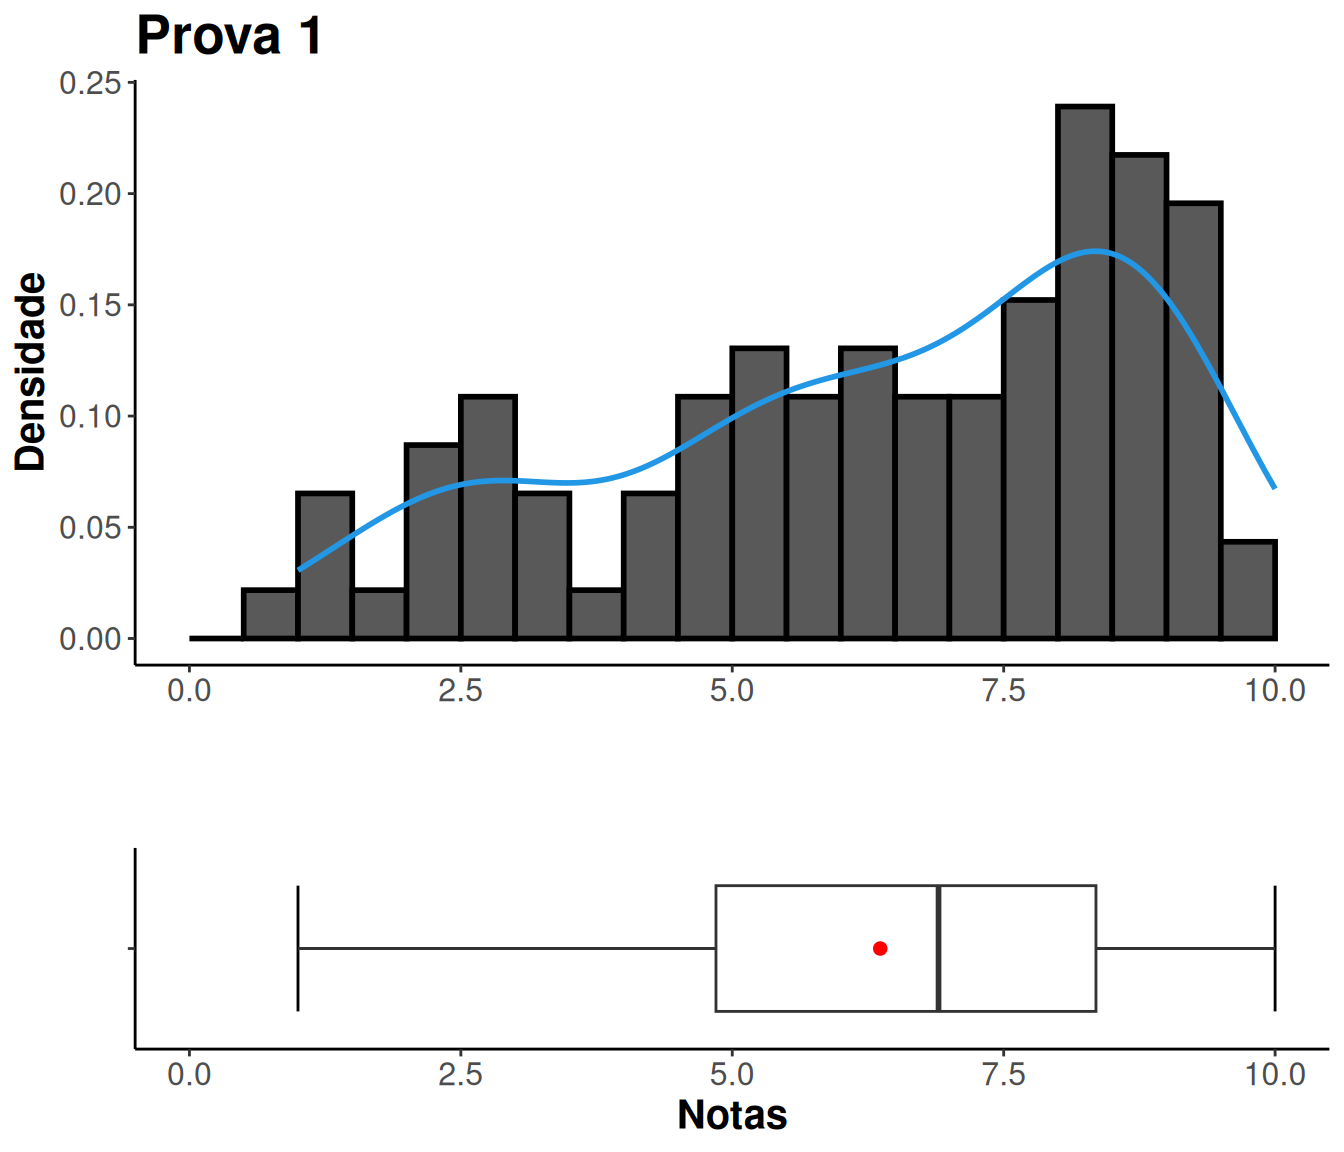
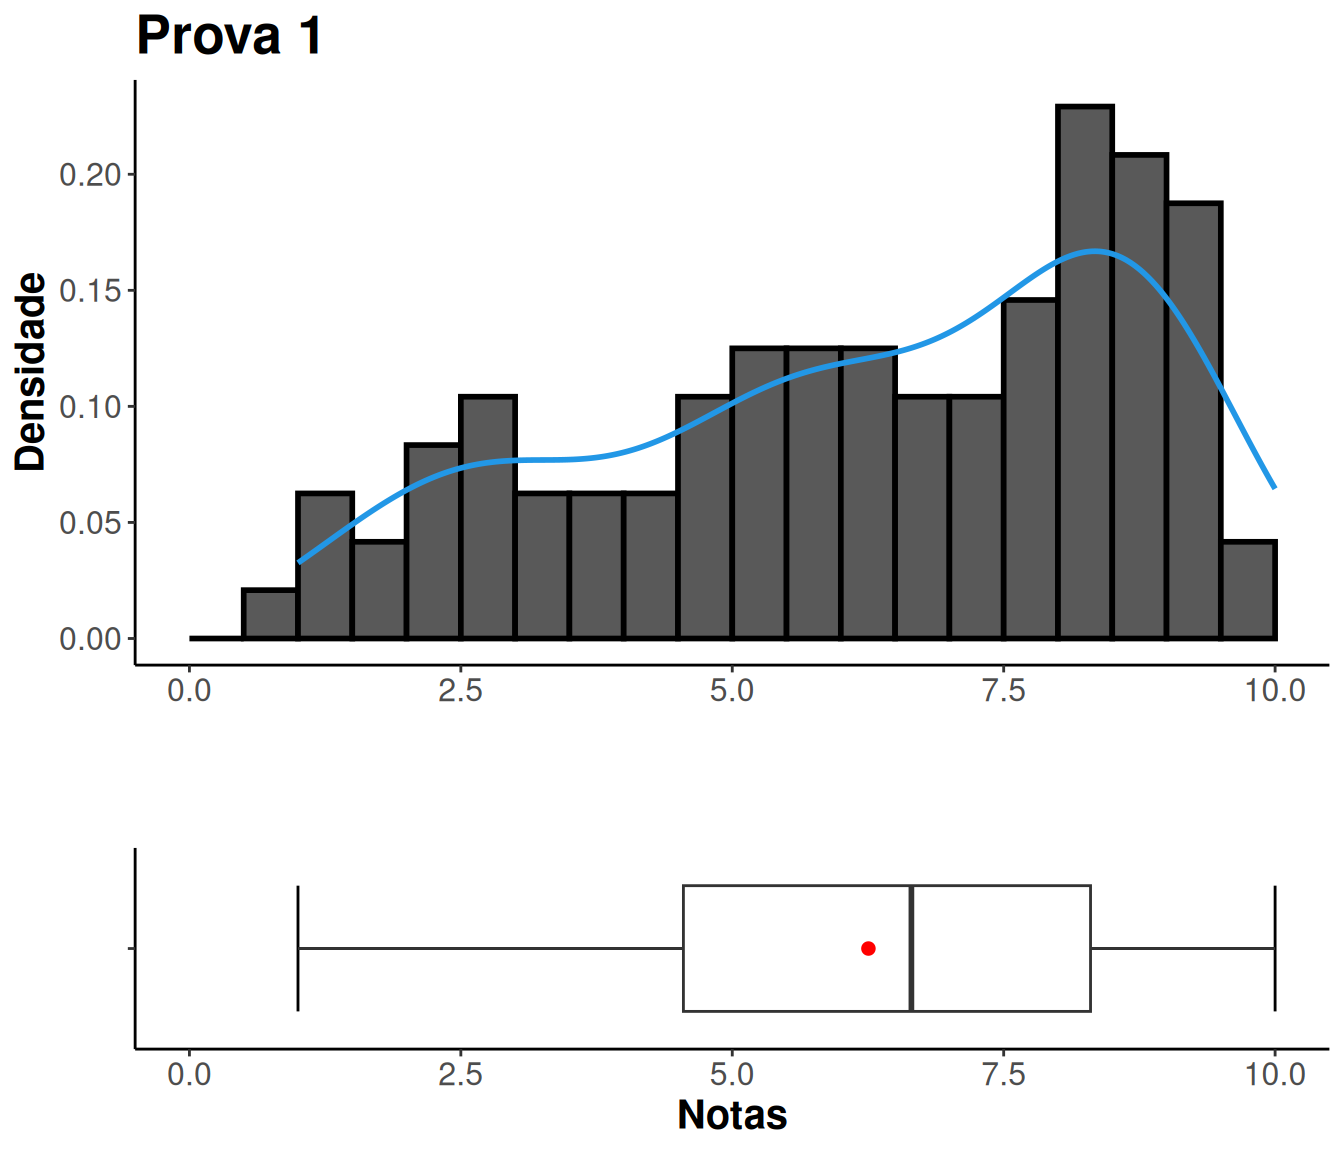
Atualizando arquivo de notas

diff --git a/notas.html b/notas.html
@@ -595,7 +595,7 @@ Prof. Dr. Paulo Justiniano Ribeiro Junior</div></h3>
 </tr>
 <tr class="even">
 <td align="left">GRR20233896</td>
-<td align="right">NA</td>
+<td align="right">1.8</td>
 <td align="right">4</td>
 </tr>
 <tr class="odd">
@@ -625,7 +625,7 @@ Prof. Dr. Paulo Justiniano Ribeiro Junior</div></h3>
 </tr>
 <tr class="even">
 <td align="left">GRR20264886</td>
-<td align="right">NA</td>
+<td align="right">5.8</td>
 <td align="right">14</td>
 </tr>
 <tr class="odd">
@@ -680,7 +680,7 @@ Prof. Dr. Paulo Justiniano Ribeiro Junior</div></h3>
 </tr>
 <tr class="odd">
 <td align="left">GRR20254042</td>
-<td align="right">NA</td>
+<td align="right">3.6</td>
 <td align="right">32</td>
 </tr>
 <tr class="even">
@@ -845,7 +845,7 @@ Prof. Dr. Paulo Justiniano Ribeiro Junior</div></h3>
 </tr>
 <tr class="even">
 <td align="left">GRR20261152</td>
-<td align="right">NA</td>
+<td align="right">3.8</td>
 <td align="right">6</td>
 </tr>
 <tr class="odd">
@@ -992,14 +992,14 @@ class="section level1 tabset tabset-fade tabset-pills">
 <div id="prova-1" class="section level2">
 <h2>PROVA 1</h2>
 <center>
-<table style="width:76%;">
+<table style="width:75%;">
 <colgroup>
 <col width="6%" />
 <col width="12%" />
 <col width="9%" />
 <col width="11%" />
 <col width="13%" />
-<col width="9%" />
+<col width="8%" />
 <col width="12%" />
 </colgroup>
 <thead>
@@ -1015,12 +1015,12 @@ class="section level1 tabset tabset-fade tabset-pills">
 </thead>
 <tbody>
 <tr class="odd">
-<td align="center">92</td>
+<td align="center">96</td>
 <td align="center">1</td>
-<td align="center">4.85</td>
-<td align="center">6.363</td>
-<td align="center">6.9</td>
-<td align="center">8.35</td>
+<td align="center">4.55</td>
+<td align="center">6.254</td>
+<td align="center">6.65</td>
+<td align="center">8.3</td>
 <td align="center">10</td>
 </tr>
 </tbody>
@@ -1041,8 +1041,8 @@ class="section level1 tabset tabset-fade tabset-pills">
 <tbody>
 <tr class="odd">
 <td align="center">9</td>
-<td align="center">5.839</td>
-<td align="center">2.416</td>
+<td align="center">5.953</td>
+<td align="center">2.44</td>
 </tr>
 </tbody>
 </table>
@@ -1513,8 +1513,8 @@ class="section level1 tabset tabset-fade tabset-pills">
 <tr class="odd">
 <td align="center">108</td>
 <td align="center">0</td>
-<td align="center">0.7</td>
-<td align="center">1.348</td>
+<td align="center">0.8</td>
+<td align="center">1.381</td>
 <td align="center">1.5</td>
 <td align="center">2</td>
 <td align="center">2.5</td>
@@ -1537,8 +1537,8 @@ class="section level1 tabset tabset-fade tabset-pills">
 <tbody>
 <tr class="odd">
 <td align="center">2.5</td>
-<td align="center">0.6289</td>
-<td align="center">0.793</td>
+<td align="center">0.572</td>
+<td align="center">0.7563</td>
 </tr>
 </tbody>
 </table>
